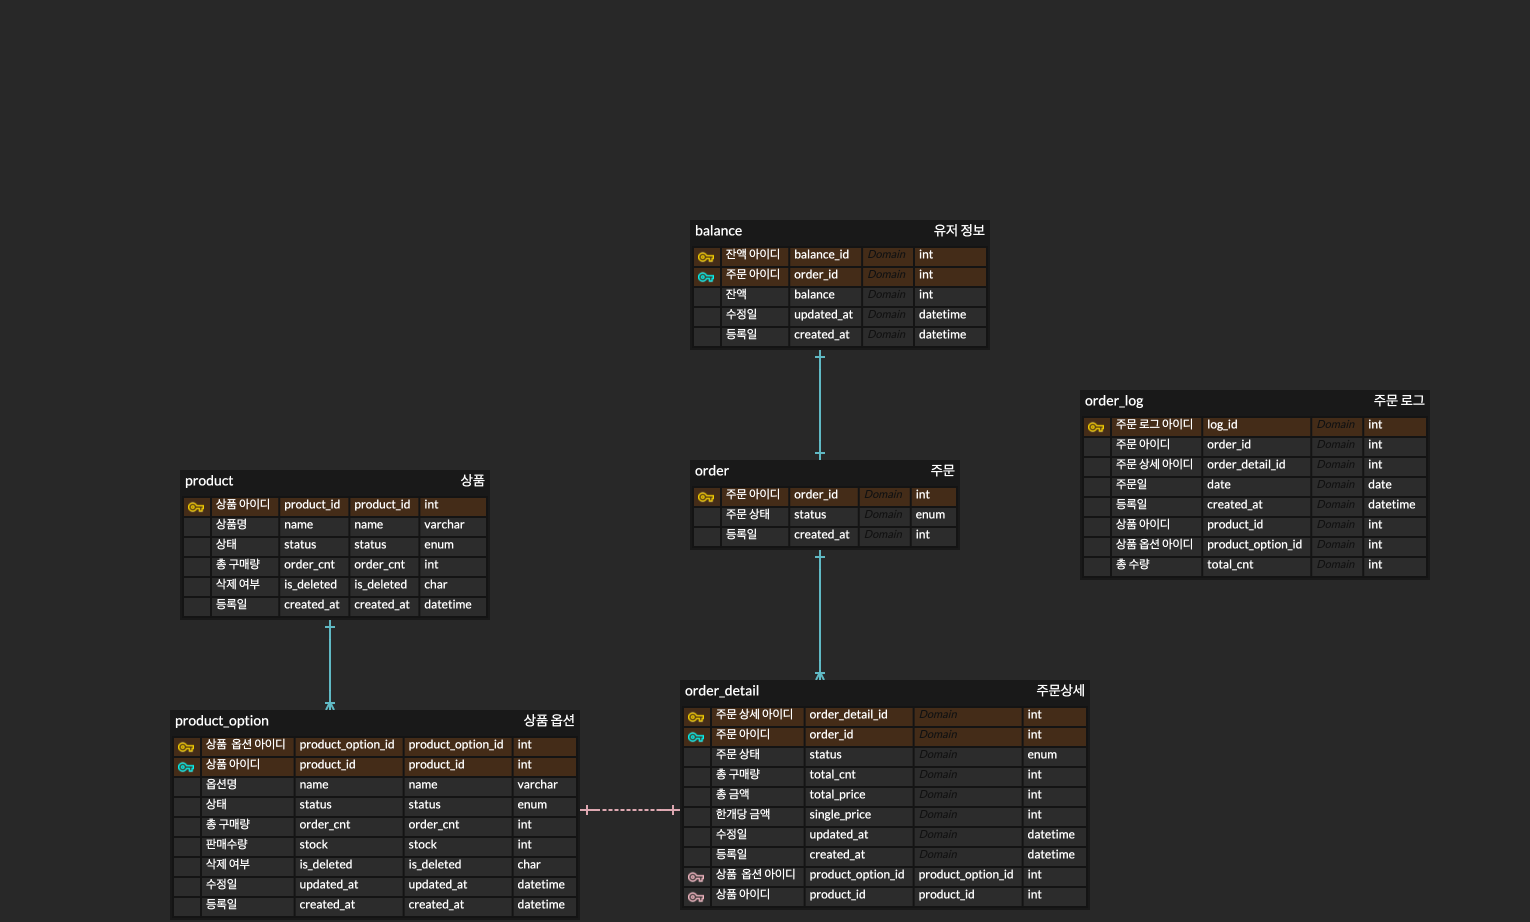
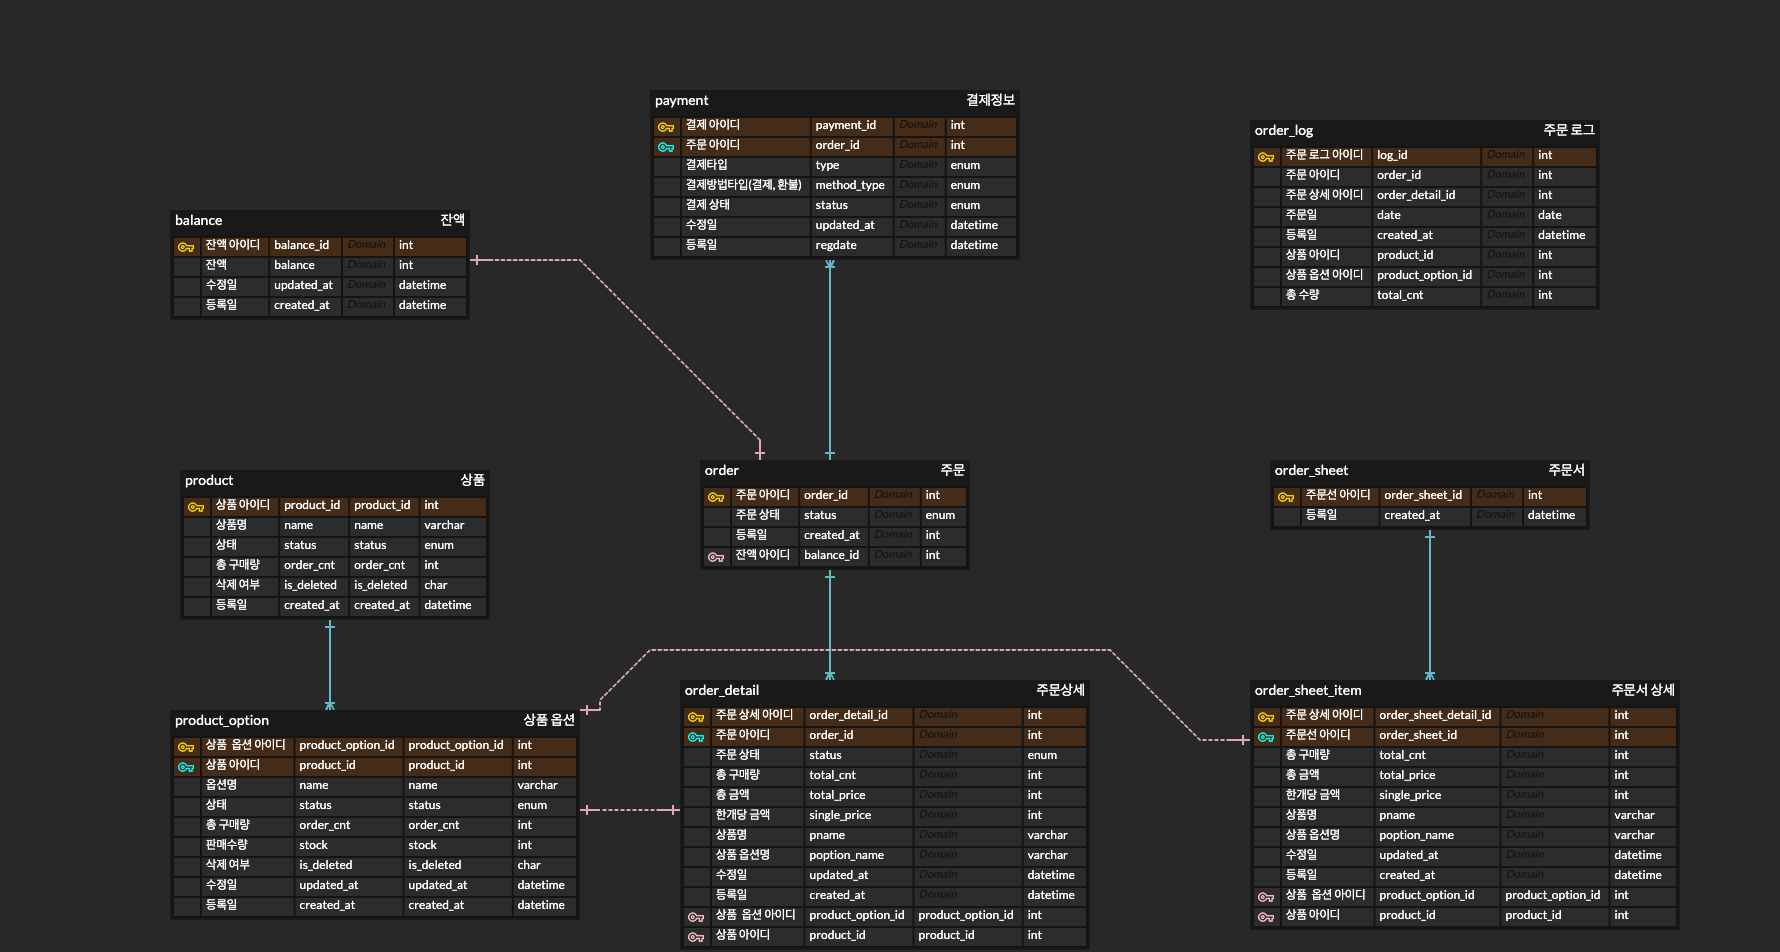
ERD 수정 및 Swagger UI 추가

diff --git a/README.md b/README.md
@@ -24,3 +24,6 @@ Taks 6 시나리오 설계 자료 제출
 
 API 명세
 ![API_Spec.png](API_Spec.png)
+
+Swagger UI
+![SwaggerUI.png](SwaggerUI.png)
